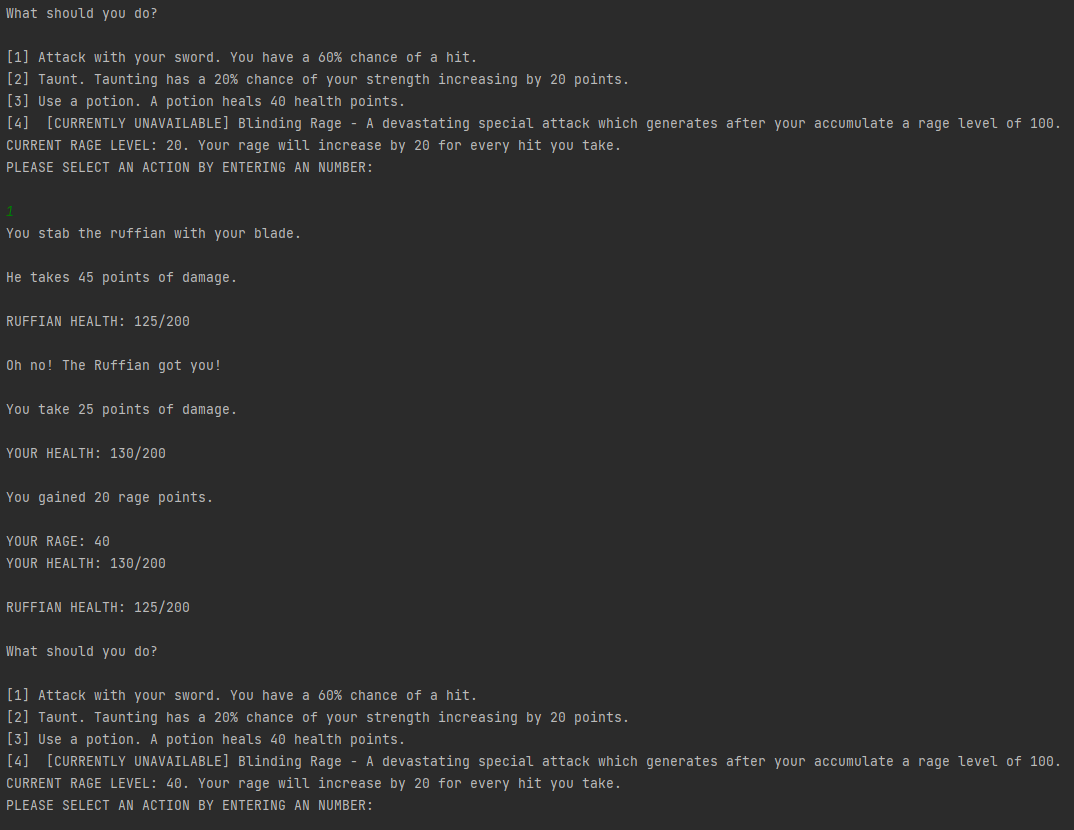
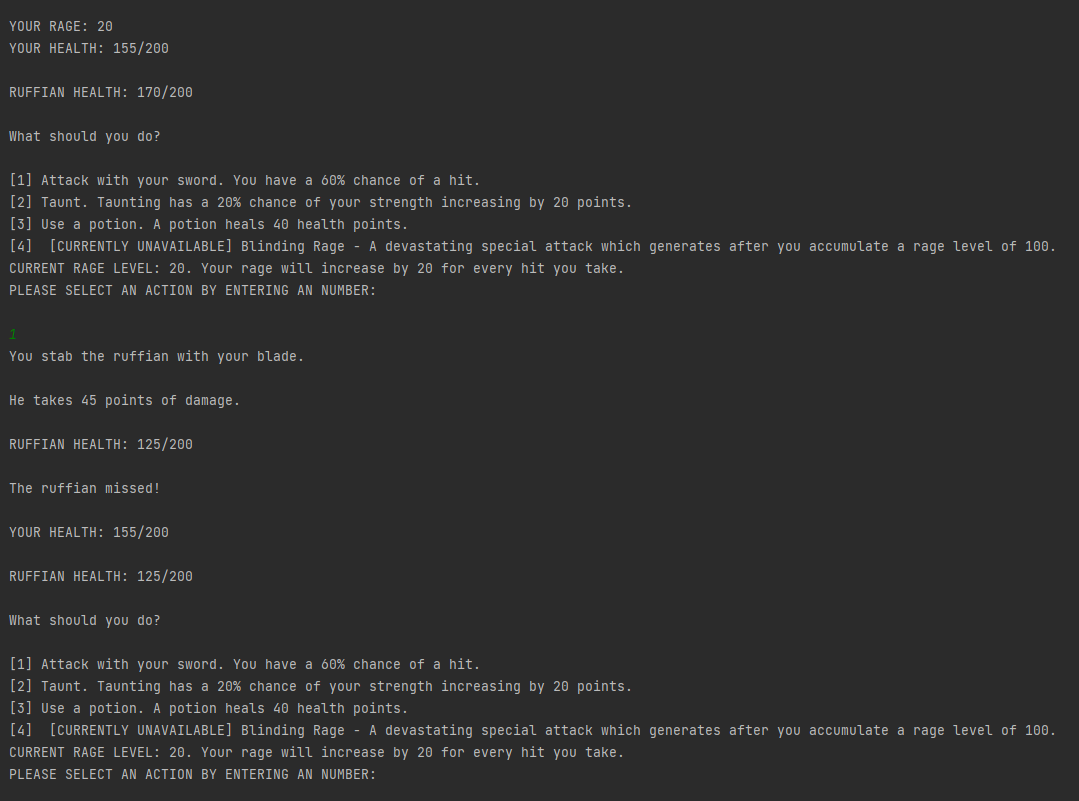
fixed readme and typo

diff --git a/src/com/company/DraugrBattle.java b/src/com/company/DraugrBattle.java
@@ -123,7 +123,7 @@ public class DraugrBattle {
             System.out.println("[2] Taunt. Taunting has a 40% chance of your strength increasing by 20 points.");
             System.out.println("[3] Use a potion. A potion heals 40 health points.");
             if (player.getRageLevel() < 100) {
-                System.out.println("[4]  [CURRENTLY UNAVAILABLE] Blinding Rage - A devastating special attack which generates after your accumulate a rage level of 100.");
+                System.out.println("[4]  [CURRENTLY UNAVAILABLE] Blinding Rage - A devastating special attack which generates after you accumulate a rage level of 100.");
                 System.out.println("CURRENT RAGE LEVEL: " + player.getRageLevel() + ". Your rage will increase by 20 for every hit you take.");
             }
             if (player.getRageLevel() >= 100) {

diff --git a/src/com/company/RuffianBattle.java b/src/com/company/RuffianBattle.java
@@ -73,7 +73,7 @@ public class RuffianBattle {
             System.out.println("[2] Taunt. Taunting has a 20% chance of your strength increasing by 20 points.");
             System.out.println("[3] Use a potion. A potion heals 40 health points.");
             if (player.getRageLevel() < 100) {
-                System.out.println("[4]  [CURRENTLY UNAVAILABLE] Blinding Rage - A devastating special attack which generates after your accumulate a rage level of 100.");
+                System.out.println("[4]  [CURRENTLY UNAVAILABLE] Blinding Rage - A devastating special attack which generates after you accumulate a rage level of 100.");
                 System.out.println("CURRENT RAGE LEVEL: " + player.getRageLevel() + ". Your rage will increase by 20 for every hit you take.");
             }
             if (player.getRageLevel() >= 100) {
